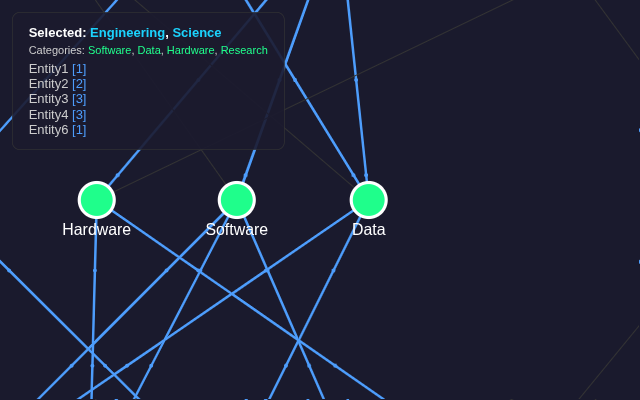
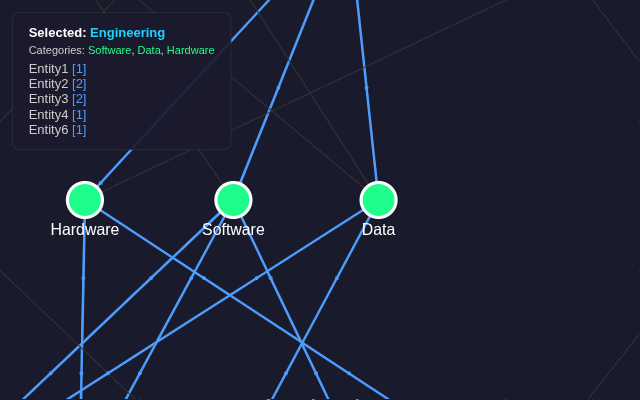
Rebuild snapshot with panel sync fix and thumbnail cards

diff --git a/demos/bidirectional-selection/dual-all/assets/index-BjqNHIcc.js b/demos/bidirectional-selection/dual-all/assets/index-BjqNHIcc.js
@@ -1,0 +1,1 @@
+(function(){const o=document.createElement("link").relList;if(o&&o.supports&&o.supports("modulepreload"))return;for(const e of document.querySelectorAll('link[rel="modulepreload"]'))l(e);new MutationObserver(e=>{for(const n of e)if(n.type==="childList")for(const f of n.addedNodes)f.tagName==="LINK"&&f.rel==="modulepreload"&&l(f)}).observe(document,{childList:!0,subtree:!0});function r(e){const n={};return e.integrity&&(n.integrity=e.integrity),e.referrerPolicy&&(n.referrerPolicy=e.referrerPolicy),e.crossOrigin==="use-credentials"?n.credentials="include":e.crossOrigin==="anonymous"?n.credentials="omit":n.credentials="same-origin",n}function l(e){if(e.ep)return;e.ep=!0;const n=r(e);fetch(e.href,n)}})();const y=[{id:"visnetwork",label:"vis-network (hierarchical)"},{id:"venn-enhanced",label:"Enhanced Venn"},{id:"cytoscape",label:"Cytoscape.js + dagre"},{id:"d3dag",label:"D3.js + d3-dag (Sugiyama)"},{id:"forcegraph",label:"force-graph (vasturiano)"},{id:"sigma",label:"Sigma.js v3"},{id:"reagraph",label:"reagraph (WebGL/React)"},{id:"venn",label:"Venn Diagram (basic)"},{id:"dual-v1",label:"Dual Panel v1 (DAG + Venn)"},{id:"orb",label:"@memgraph/orb + dagre",httpOnly:!0}],p="visnetwork",m="venn-enhanced",s=document.getElementById("select-left"),a=document.getElementById("select-right"),c=document.getElementById("iframe-left"),d=document.getElementById("iframe-right"),v=document.getElementById("btn-reset");function b(t){return`../${t}/index.html`}function h(t,o){const r=window.location.protocol==="file:";for(const l of y){const e=document.createElement("option");e.value=l.id,e.textContent=l.label,l.httpOnly&&r&&(e.textContent+=" (HTTP only)",e.disabled=!0),t.appendChild(e)}t.value=o}h(s,p);h(a,m);const u=[];function i(t,o,r=!1){const l=b(o);if(r&&u.length>0){const e=()=>{t.removeEventListener("load",e),setTimeout(()=>{for(const n of u)t.contentWindow?.postMessage({type:"sync-select",nodeId:n},"*")},300)};t.addEventListener("load",e)}t.src=l}i(c,p);i(d,m);s.addEventListener("change",()=>{i(c,s.value,!0)});a.addEventListener("change",()=>{i(d,a.value,!0)});let g=!1;window.addEventListener("message",t=>{if(g||t.data?.type!=="node-clicked")return;const o=t.data.nodeId;if(!o)return;u.push(o),g=!0;const r=t.source;r===c.contentWindow?d.contentWindow?.postMessage({type:"sync-select",nodeId:o},"*"):r===d.contentWindow&&c.contentWindow?.postMessage({type:"sync-select",nodeId:o},"*"),g=!1});v.addEventListener("click",()=>{u.length=0,i(c,s.value),i(d,a.value)});window.__dualAllState=()=>({left:s.value,right:a.value});window.__dualAllSetLeft=t=>{s.value=t,i(c,t)};window.__dualAllSetRight=t=>{a.value=t,i(d,t)};

diff --git a/demos/bidirectional-selection/index.html b/demos/bidirectional-selection/index.html
@@ -26,7 +26,7 @@
 <body>
   <a class="back" href="../index.html">&larr; All Snapshots</a>
   <h1>Snapshot: bidirectional-selection</h1>
-  <p class="meta">Created 2026-03-06 &middot; 752de87</p>
+  <p class="meta">Created 2026-03-07 &middot; ad401ea</p>
   <div class="grid">
     <a class="card" href="./cytoscape/index.html">
       <img src="./thumbnails/cytoscape.png" alt="cytoscape">

diff --git a/demos/bidirectional-selection/dual-all/index.html b/demos/bidirectional-selection/dual-all/index.html
@@ -122,7 +122,7 @@
       font-weight: bold;
     }
   </style>
-  <script defer src="./assets/index-D94VFxQF.js"></script>
+  <script defer src="./assets/index-BjqNHIcc.js"></script>
 </head>
 <body>
   <div class="dual-panel" id="dual-panel">
